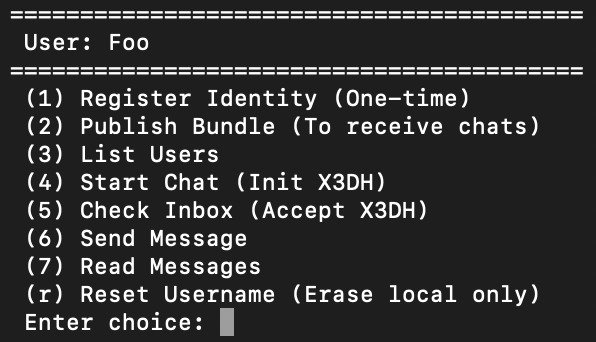
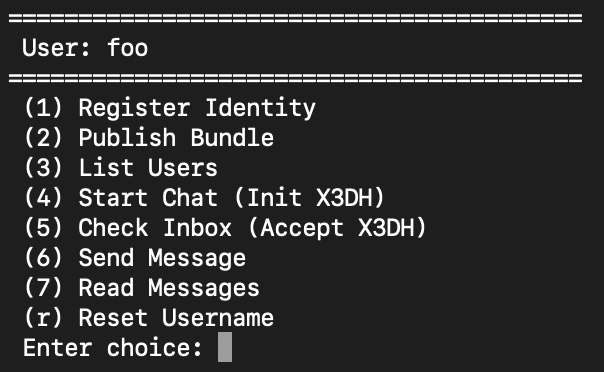
Update Readme

diff --git a/README.md b/README.md
@@ -1,7 +1,9 @@
 # X3DH implementation for ESP32
-A demo with native C implementation of X3DH Key Agreement Protocol for ESP32. The project consists of a `Server`, `VPN Server`, and `Clients`. The `Server` is built using Python and Flask framework, and it runs inside a Docker container. The `VPN Server` is built using WireGuard and it also runs inside a Docker container. The `Client` is built using ESP-IDF framework and runs on an ESP32 microcontroller. The `Clients` connect to the `Server` via the `VPN Server` to securely perform the X3DH Key Agreement Protocol. HTTP is used for the communication between the `Clients` and the `Server`.
+A demo with native C implementation of X3DH Key Agreement Protocol for ESP32.
 
-## Specifications
+This project demonstrates how to securely communicate ESP32 microcontrollers using the X3DH Key Agreement Protocol over **MQTTS**, leveraging a **VPN connection** established via WireGuard. The architecture consists of an `X3DH Server`, a `VPN Server`, a `RabbitMQ` message broker, and a `PostgreSQL` database, all orchestrated using `minikube` to create a local Kubernetes cluster.
+
+## Specifications :desktop_computer:
 `Host`'s specifications:
 - OS: macOS 26.2
 - Architecture: arm64
@@ -10,24 +12,35 @@ A demo with native C implementation of X3DH Key Agreement Protocol for ESP32. Th
 - Command Line Tools for Xcode: 26.2
 - Python: 3.12.10 (at least 3.9)
 - clang: 17.0.0
-- cmake: 4.2.1 (at least 3.16)
+- cmake: 4.2.3 (at least 3.20)
 - ninja: 1.13.2
 - ccache: 4.12.2
 - git: 2.52.0
 - dfu-util: 0.11
-- Docker Desktop: 4.57.0
-  - Engine: 29.1.3
-  - Compose: 5.0.1
+- OpenSSL: 3.6.1
+- Docker Desktop: 4.59.1
+- minikube: 1.38.0
+  - Kubernetes: 1.35.0
+  - Docker: 29.2.0
 
-`Server`'s specifications:
+`X3DH Server`'s specifications:
 - OS: Alpine Linux 3.23.2
-- Python: 3.14.2
-- Flask: 3.1.2
-- SQLite: 3.51.1
+- Python: 3.13.11
+- OpenSSL: 3.5.4
 
 `VPN Server`'s specifications:
 - OS: Alpine Linux 3.23.2
 - WireGuard: 1.0.20250521
+
+`RabbitMQ`'s specifications:
+- OS: Alpine Linux 3.23.2
+- RabbitMQ: 4.2.3 (at least 4.0.4)
+- Erlang: 27.3.4.6
+- OpenSSL: 3.5.4
+
+`PostgreSQL`'s specifications:
+- OS: Debian GNU/Linux 13.3
+- postgres: 18.1
 
 `ESP32`'s specifications:
 - MCU module: ESP32-WROOM-32E
@@ -39,8 +52,9 @@ A demo with native C implementation of X3DH Key Agreement Protocol for ESP32. Th
 - libxeddsa: 2.0.1
 - MbedTLS: 3.6.4
 - esp_wireguard: 0.9.0
+- ESP-MQTT: 1.0.0
 
-## macOS issues
+## macOS issues :sos:
 
 If you are using `macOS`: 
 1. make sure to update the Python certificates. To make it easier, I strongly suggest to download Python from the official website, instead of using HomeBrew/MacPorts, and then run the following commands in your terminal:
@@ -52,12 +66,13 @@ cd /Applications/Python\ 3.x/
 
 2. if you cannot see the ESP32 serial port after connecting it via USB, you might need to install the appropriate drivers. You could try to install the [WCH34 driver](https://www.wch-ic.com/downloads/CH34XSER_MAC_ZIP.html) and follow the installation guide from the official [repository](https://github.com/WCHSoftGroup/ch34xser_macos), or you could try to install the [Silicon Labs CP210x driver](https://www.silabs.com/developers/usb-to-uart-bridge-vcp-drivers).
 
-# How to build it
+3. if you are using `minikube` with the `docker` driver, and you are facing this error _ERROR KubeletVersion_, you might need to execute this script: `down_service.sh`.
+
+# How to build it 🛠
 
 ```bash
 git clone https://github.com/mastronardo/ESP32-X3DH-Demo.git
-cd ESP32-X3DH-Demo
-chmod +x start_service.sh stop_service.sh down_service.sh update_wg_config.sh
+cd ESP32-X3DH-Demo && chmod +x create_cluster.sh gen_certs.sh
 ```
 
 ## Client
@@ -73,9 +88,11 @@ pip install -U idf-component-manager # be sure to keep the component Manager upd
 idf.py add-dependency "espressif/libsodium^1.0.20~3"
 idf.py add-dependency "espressif/cjson^1.7.19"
 idf.py add-dependency "trombik/esp_wireguard^0.9.0"
+idf.py add-dependency "espressif/mqtt^1.0.0"
 ```
 
-The most difficult regards the building of [libxeddsa](https://github.com/Syndace/libxeddsa) library for ESP-IDF, since it is not available in the Component Registry. The first step was to clone the repository inside the `components` directory.
+Since [libxeddsa](https://github.com/Syndace/libxeddsa) library is not available in the Component Registry, it was necessary to manually build it for ESP-IDF.
+The first step was to clone the repository inside the `components` directory.
 
 ```bash
 mkdir -p client/components && cd client/components
@@ -85,17 +102,24 @@ git clone https://github.com/Syndace/libxeddsa.git
 After that, the following files inside the `libxeddsa` directory were been modified to make the library compatible with ESP-IDF: `CMakeLists.txt`, `ref10/CMakeLists.txt`, `ref10/include/cross_platform.h`. In addition, some files that were not needed for this project (for example _tests_ and _docs_), were deleted to free some space in the flash memory.
 
 ### sdkconfig
-`sdkconfig.defaults` was created to automatically generate the `sdkconfig` file when you open the `menuconfig` or set the target.
+`sdkconfig.defaults` was created to automatically generate the ready-to-use `sdkconfig` file when you open the `menuconfig` or _set the target_.
 1. To make sure that the client binary executable file will fit inside the flash memory of the ESP32, and to avoid stack overflow issue when running the project, these parameters were set:
-  - `(Top)` ---> `Partition Table` ---> `Partition Table` ---> `Two large size OTA partitions`
-  - `(Top)` ---> `Serial Flasher Config` ---> `Flash size` ---> `4MB`
-  - `(Top)` ---> `Component config` ---> `ESP System Settings` --> `Main task stack size` ---> `10240`
-2. To enable the HKDF algorithm required by the X3DH Key Agreement Protocol:
-  - `(Top)` ---> `Component config` ---> `mbedTLS` ---> `HKDF algorithm (RFC 5869)`
-3. To enable the PPP support needed by the **esp_wireguard** component:
-  - `(Top)` ---> `Component config` ---> `LWIP` ---> `Enable PPP support`
-4. Since "_IPv6 support is alpha and probably broken_" in **esp_wireguard** component, it is recommended to disable it:
-  - `(Top)` ---> `Component config` ---> `LWIP` ---> `Enable IPv6`
+  - `(Top)` → `Partition Table` → `Partition Table` → `Two large size OTA partitions`
+  - `(Top)` → `Serial Flasher Config` → `Flash size` → `4MB`
+  - `(Top)` → `Component config` → `ESP System Settings` → `Main task stack size` → `12288`
+  - `(Top)` → `Component config` → `LWIP` → `TCP/IP Task Stack Size` → `4096`
+2. To enable the HKDF algorithm required by the X3DH Key Agreement Protocol and TLSv1.3:
+  - `(Top)` → `Component config` → `mbedTLS` → `HKDF algorithm (RFC 5869)`
+3. Since "_IPv6 support is alpha and probably broken_" in **esp_wireguard** component, it is recommended to disable it:
+  - `(Top)` → `Component config` → `LWIP` → `Enable IPv6` _(disable)_
+4. To enable the PPP support needed by the **esp_wireguard** component:
+  - `(Top)` → `Component config` → `LWIP` → `Enable PPP support`
+5. To enable MQTT 5.0 and disable MQTT 3.1.1:
+  - `(Top)` → `Component config` → `ESP-MQTT Configurations` → `Enable MQTT protocol 5.0`
+  - `(Top)` → `Component config` → `ESP-MQTT Configurations` → `Enable MQTT protocol 3.1.1` _(disable)_
+6. To force using TLSv1.3:
+  - `(Top)` → `Component config` → `mbedTLS` → `mbedTLS v3.x related` → `Support TLS 1.3 protocol`
+  - `(Top)` → `Component config` → `mbedTLS` → `Support TLS 1.2 protocol` _(disable)_
 
 ### Erase flash memory
 Since we are going to store the keys in the NVS memory, it is recommended to erase the flash:
@@ -106,74 +130,79 @@ Since we are going to store the keys in the NVS memory, it is recommended to era
 idf.py -p PORT erase-flash
 ```
 
-## X3DH Server and VPN Server
-`Server` and `VPN Server` run inside Docker containers. Do not use `sudo` for the following commands if your user has permissions to run Docker commands.
+## Minikube :whale:
+Make sure to have `minikube` installed on your machine. You can follow the official guide [here](https://minikube.sigs.k8s.io/docs/start/). The choice to use **minikube** is influenced by the fact that is a lightweight K8s instance that can be easily set up on a local machine, making it ideal for development and testing purposes. It allows us to create a local Kubernetes cluster without the need for complex infrastructure, which is perfect for this demo.
+
+### X3DH Server
+The X3DH server is implemented in Python and runs inside a lean Docker container. To build the Docker image, you need to pull the base image and then build the custom image using the provided `Dockerfile`. The server interacts with a PostgreSQL database to store user info and uses TLSv1.3 for secure communication with broker. The database password can be retrieved from the Kubernetes secret created during the cluster setup.
 
 ```bash
-# X3DH Server
-sudo docker pull python:3.14.2-alpine3.23
-cd server && sudo docker build -t x3dh-server:1.0 .
-
-# VPN Server
-sudo docker pull linuxserver/wireguard:1.0.20250521
+# do not use sudo if your user has permissions to run docker commands
+sudo docker pull python:3.13.11-alpine3.23
+sudo docker build -t x3dh-server:1.1 ./server
 ```
 
-```bash
-# Build all the containers and start the service.
-# Wait until the server is fully started.
-./start_service.sh
-```
-
-```bash
-# To stop the service
-./stop_service.sh
-```
-
-```bash
-# To stop and delete containers, networks and volumes
-./down_service.sh
-```
-
-## VPN Configuration
+### VPN Configuration
 Since the [esp_wireguard](https://github.com/trombik/esp_wireguard) repository is no longer maintained, if you try to use the component as it is, you are going to face issues with the newest versions of ESP-IDF. Mainly thanks to [issues](https://github.com/trombik/esp_wireguard/issues) opened during 2025, and [Kerem Erkan's post](https://keremerkan.net/posts/wireguard-mtu-fixes/) about MTU fixes, it was possible to make the component work again.
 
 - **Overview:** the MCU performs NTP time synchronization and initializes the WireGuard tunnel. All runtime parameters used by the client are provided via the generated header `keys.h`.
 
-- **Generate `keys.h`:** `generate_keys.py` extracts the required values from the WireGuard container `wg0.conf` and writes them to `client/main/keys.h`. You need to provide two arguments: the **host's local IP address** where the Docker containers are running, and the **peer number** assigned in the WireGuard server configuration, starting from 1.
+- **Generate `keys.h`:** `generate_keys.py` extracts the required information from WireGuard and RabbitMQ containers, and writes them to `client/main/keys.h`. You need to provide two arguments: the **host's local IP address** where the Minikube cluster is running, and the **peer number** assigned in the WireGuard server configuration (starting from 1).
 
+- **Preshared Key (PSK) compatibility:** the `esp_wireguard` client used does not support `PresharedKey`. For that reason the helper script `update_wg_config.sh` (embedded in `k8s-deployment.yaml`) comments out `PresharedKey` lines in the server configuration and replaces `PostUp`/`PostDown` rules to ensure proper forwarding/NAT and add an MSS clamp to avoid MTU issues. The script writes a flag file so it runs only once.
+
+- **Runtime network notes:** `app_main.c` sets the WireGuard interface address from `WG_LOCAL_IP_ADDR` and, in the current code, forces a class-A netmask (`255.0.0.0`) and a gateway of `10.13.13.1`. The interface MTU is reduced to `1280` to prevent packet fragmentation/loss. If your network topology requires different netmask/gateway/MTU, update `keys.h` or modify `start_wireguard()` in `app_main.c` accordingly.
+
+> :warning: **Known Issue:** Due to **CGNAT** (Carrier-Grade NAT) used by mobile hotspot, the client may not be able to reach the WireGuard server. If you experience connectivity issues, please try to connect the MCU to a different network.
+  > If you are using a different client device (such as a PC), yet got the same issue, please check this [Kerem Erkan's post](https://keremerkan.net/posts/udp2raw-bypass-censoring-wireguard-protocol/).
+
+> :no_entry: **Known Limitation:** **esp_wireguard** does not support _Ethernet interface_.
+
+### RabbitMQ :rabbit:
+The RabbitMQ message broker it is used to reduce the load on requests that were previously sent directly to the server, and to use a lighter protocol that is better suited to the IoT ecosystem (_MQTT_). The broker is configured to use TLSv1.3 for secure communication with both the server and the clients. The necessary certificates are generated during the cluster setup and mounted as Kubernetes secrets. Three replicas of RabbitMQ are deployed to ensure high availability, and a `ClusterIP` service is created to allow internal communication within the cluster.
+
+## PostgreSQL :elephant:
+The PostgreSQL database is used to store user information for the X3DH server. It is managed using [CloudNativePG Operator](https://github.com/cloudnative-pg/cloudnative-pg), which simplifies the deployment and management of PostgreSQL clusters (_1 primary instance + 2 replicas_) on Kubernetes. The choice of using PostgreSQL is due to its robustness and reliability, making it suitable for production environments.
+
+A `pgAdmin` instance is also deployed to provide a web-based interface for managing the database. It is accessible via `localhost:30080` and can be used to verify that the database is correctly set up and to inspect the stored data.
+
+# How to run the demo :rocket:
+First of all, make sure to:
+- set the target for your ESP32 device (e.g. `esp32` or `esp32s3`),
+- use a valide WiFi credentials inside `client/main/app_main.c` file,
+- set the number of peers for VPN Server inside `k8s-deployment.yaml`,
+- update the Postgres env varibles inside `server/start.sh` and `server/server.py`,
+- choose an email and a password for _pgAdmin_ inside `pgadmin.yaml`,
+- retrieve the password to access the `x3dh_db` from _pgAdmin_ with:
+```bash
+kubectl get secret x3dh-db-cluster-app -n x3dh-project -o jsonpath='{.data.password}' | base64 -d
+```
+
+1. Start the Minikube cluster:
+```bash
+# Run this only the first time to create the cluster
+./create_service.sh 
+```
+
+```bash
+# Run this to start the cluster if you stopped it earlier
+minikube start
+```
+
+2. Generate the `keys.h` file for the client:
 ```bash
 python3 generate_keys.py <HOST_LOCAL_IP> <PEER_NUMBER>
 ```
 
-- **Preshared Key (PSK) compatibility:** the `esp_wireguard` client used does not support `PresharedKey`. For that reason the helper script `update_wg_config.sh` comments out `PresharedKey` lines in the server configuration and replaces `PostUp`/`PostDown` rules to ensure proper forwarding/NAT and add an MSS clamp to avoid MTU issues. The script writes a flag file so it runs only once.
-
-- **Runtime network notes:** `app_main.c` sets the WireGuard interface address from `WG_LOCAL_IP_ADDR` and, in the current code, forces a class-A netmask (`255.0.0.0`) and a gateway of `10.13.13.1`. The interface MTU is reduced to `1280` to prevent packet fragmentation/loss. If your network topology requires different netmask/gateway/MTU, update `keys.h` or modify `start_wireguard()` in `app_main.c` accordingly.
-
-> ⚠ **Known Issue:** Due to **CGNAT** (Carrier-Grade NAT) used by mobile hotspot, the client may not be able to reach the WireGuard server. If you experience connectivity issues, please try to connect the MCU to a different network.
-  > If you are using a different client device (such as a PC), yet got the same issue, please check this [Kerem Erkan's post](https://keremerkan.net/posts/udp2raw-bypass-censoring-wireguard-protocol/).
-
-> ⛔ **Known Limitation:** `esp_wireguard` does not support _Ethernet interface_.
-
-# How to run it
-1. Start the containers:
-```bash
-./start_service.sh
-```
-
-2. Set the target for the client:
-```bash
-cd client && get_idf
-idf.py set-target esp32
-```
-
 3. Build, flash and monitor the client:
 ```bash
+cd client && get_idf
 idf.py build
 idf.py -p PORT flash monitor
 ```
 
-## Flow
-The client will firstly connect to WiFi, then it will perform NTP time synchronization to get the correct time. After that, the WireGuard tunnel will be initialized to connect to the VPN Server. At this point, the client will be able to communicate with the X3DH Server, choosing one of the available options provided in the menu.
+## Flow :infinity:
+The `ESP32 client` will firstly connect to **WiFi**, then it will perform **NTP** time synchronization. After that, the **WireGuard tunnel** will be initialized to connect to the `VPN Server`, to securely communicate with `RabbitMQ broker`, ensuring end-to-end encryption and secure key exchange. The following menu will be displayed:
 
 <p align="center">
   <img width="48%" src="docs/menu.png">
